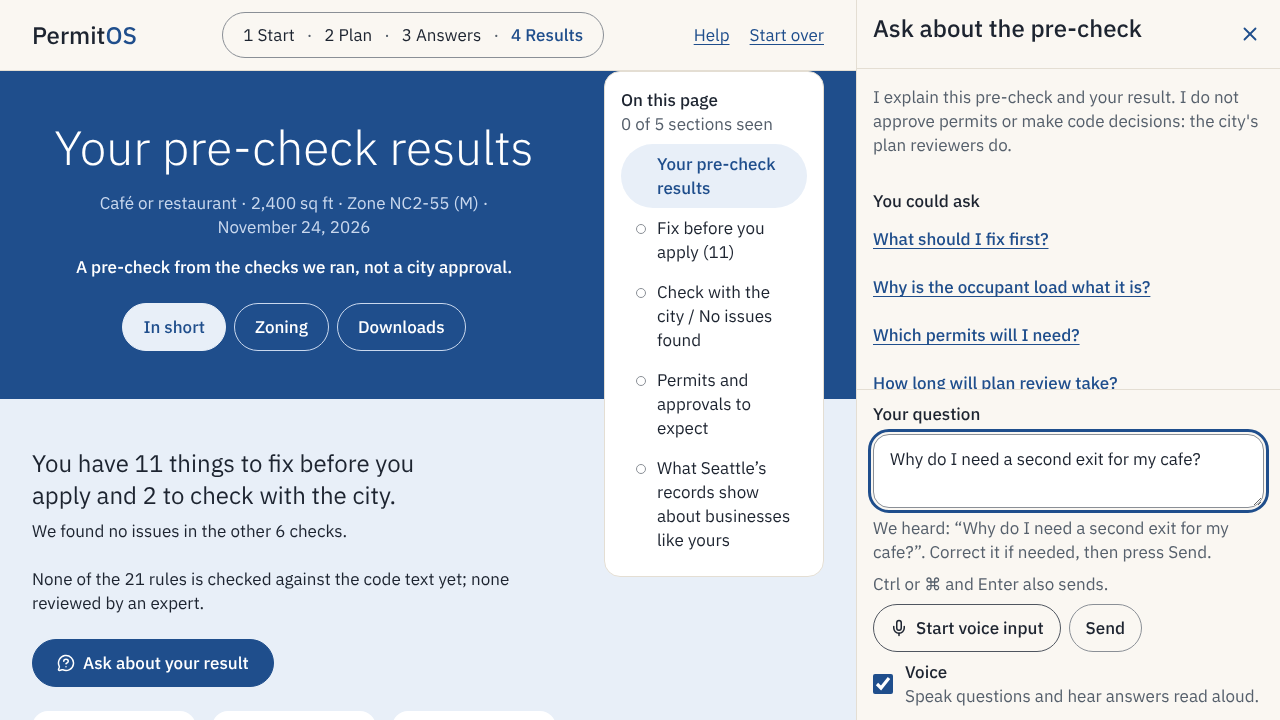
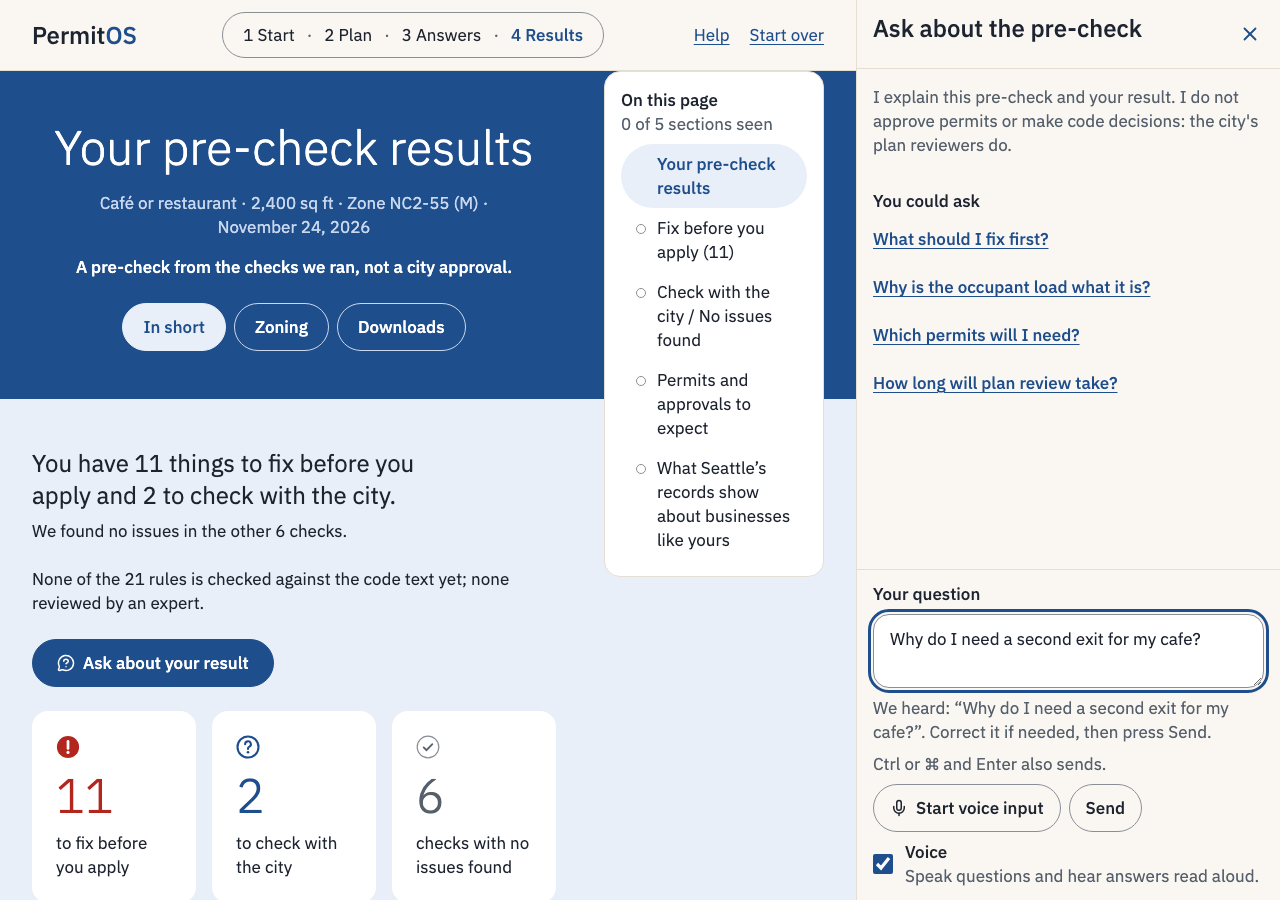
Intel-Mac ffmpeg and Node notes; keep the We heard line when the panel becomes a sheet
README: on an Intel Mac, install ffmpeg into the .venv with imageio-ffmpeg (Homebrew no
longer supports Intel Macs); keep brew for Apple Silicon. README and web/README: where Node
is on the project's Intel Mac if it is not on the PATH.

Assistant: the words heard by voice input (and whether the box still holds them) move from
PanelBody's local state to the assistant store. The side panel and the mobile sheet are
different elements, so switching layout right after speaking remounted PanelBody and lost
the We heard line while the box kept its words. Clearing the conversation now also clears it.

Tests: a unit test that remounts the panel, and an e2e test that speaks at 1280 px, resizes
to 375 px and checks the line is unchanged. The Path A heard screenshot is now taken at
375 px as well.

diff --git a/web/tests/e2e/voice.spec.ts b/web/tests/e2e/voice.spec.ts
@@ -113,7 +113,7 @@ test("Path A: on this device, keyboard only: words appear live, no audio is sent
   await page.keyboard.press("Enter");                      // Stop, still focused
   await expect(panel(page).getByTestId("heard")).toHaveText(`We heard: “${HEARD}”. Correct it if needed, then press Send.`);
   await expect(panel(page).getByTestId("heard")).toHaveAttribute("aria-live", "polite");
-  if (process.env.SHOTS) await page.screenshot({ path: "../docs/screenshots/voice-hybrid/path-a-heard-1280.png" });   // before a resize remounts it
+  await shoot(page, "voice-hybrid", "path-a-heard", { fullPage: false });   // the line survives the resize to 375 and back
   const log = await page.evaluate(() => (window as unknown as { __speech: unknown[] }).__speech);
   expect(log).toContainEqual(["available", { langs: ["en-US"], processLocally: true }]);
   expect(log).toContainEqual(["start", true, true, "en-US"]);
@@ -273,6 +273,26 @@ test("a half-typed question survives the panel changing to a sheet", async ({ pa
   await panel(page).getByRole("textbox", { name: "Your question" }).fill("Do I need");
   await page.setViewportSize({ width: 375, height: 812 });
   await expect(panel(page).getByRole("textbox", { name: "Your question" })).toHaveValue("Do I need");
+});
+
+test("the We heard line survives the panel changing to a sheet right after speaking", async ({ page }) => {
+  await onDeviceRecognition(page, "available");
+  await page.setViewportSize({ width: 1280, height: 900 });
+  await page.goto("/business/");
+  await page.getByRole("button", { name: "Ask", exact: true }).click();
+  await panel(page).getByRole("button", { name: START }).click();
+  const box = panel(page).getByRole("textbox", { name: "Your question" });
+  await expect(box).toHaveValue(HEARD);
+  await panel(page).getByRole("button", { name: STOP }).click();
+  const line = `We heard: “${HEARD}”. Correct it if needed, then press Send.`;
+  await expect(panel(page).getByTestId("heard")).toHaveText(line);
+  await expect(page.locator(".side-panel")).toHaveAttribute("data-open", "true");
+  await page.setViewportSize({ width: 375, height: 812 });           // the side panel is replaced by the sheet
+  await expect(page.locator(".sheet")).toBeVisible();
+  await expect(panel(page).getByRole("textbox", { name: "Your question" })).toHaveValue(HEARD);
+  await expect(panel(page).getByTestId("heard")).toHaveText(line);
+  await expect(panel(page).getByTestId("heard")).toBeVisible();
+  await expectNoAxeViolations(page, "heard after the change to a sheet");
 });
 
 test("the microphone shows on step 1 too, and Voice off hides it and is remembered", async ({ page }) => {

diff --git a/web/src/state/assistant.ts b/web/src/state/assistant.ts
@@ -1,5 +1,6 @@
 /**
- * The assistant's state for this tab: open or closed, the conversation, and a question waiting to be typed.
+ * The assistant's state for this tab: open or closed, the conversation, a question waiting to be typed, and the
+ * words last heard by voice input (the "We heard" line).
  * In memory only. It never opens by itself: only the Ask button and "Ask about this" open it.
  */
 export type Message =
@@ -7,9 +8,12 @@ export type Message =
   | { role: "assistant"; text: string; cited: string[]; by: "template" | "model" | "help"; spoken?: boolean }
   | { role: "problem"; text: string };
 
-type State = { open: boolean; messages: Message[]; draft: string; draftVersion: number; pending: boolean };
+/** heard: the words voice input put in the box; spoken: the box's text still came from the microphone. */
+type Heard = { heard: string; spoken: boolean };
+type State = { open: boolean; messages: Message[]; draft: string; draftVersion: number; pending: boolean } & Heard;
 
-let state: State = { open: false, messages: [], draft: "", draftVersion: 0, pending: false };
+const EMPTY: State = { open: false, messages: [], draft: "", draftVersion: 0, pending: false, heard: "", spoken: false };
+let state: State = EMPTY;
 const listeners = new Set<() => void>();
 const set = (patch: Partial<State>) => {
   state = { ...state, ...patch };
@@ -30,9 +34,14 @@ export const assistant = {
   keepDraft: (text: string) => {
     state = { ...state, draft: text };
   },
+  /**
+   * The "We heard" line. Kept here, not in the panel, because the side panel and the sheet are different elements:
+   * when one replaces the other (the window narrows, a phone rotates) the line must stay with the words in the box.
+   */
+  setHeard: (h: Partial<Heard>) => set(h),
   add: (m: Message) => set({ messages: [...state.messages, m] }),
   setPending: (pending: boolean) => set({ pending }),
-  clear: () => set({ messages: [], draft: "", draftVersion: state.draftVersion + 1 }),
+  clear: () => set({ messages: [], draft: "", draftVersion: state.draftVersion + 1, heard: "", spoken: false }),
   /** For tests. */
-  reset: () => set({ open: false, messages: [], draft: "", draftVersion: 0, pending: false }),
+  reset: () => set(EMPTY),
 };

diff --git a/web/src/components/assistant/Assistant.tsx b/web/src/components/assistant/Assistant.tsx
@@ -187,8 +187,9 @@ function PanelBody({ step, checkId, onClose, closeOnLink }: { step: string; chec
   const [seenDraft, setSeenDraft] = useState(s.draftVersion);
   const [voiceOn, setVoiceOn] = useState(() => voiceSetting.get());
   const [mic, setMic] = useState<MicState>({ state: "idle" });
-  const [spokenNext, setSpokenNext] = useState(false);       // the text in the box came from the microphone
-  const [heard, setHeard] = useState("");                     // the words heard, for the live region
+  // The "We heard" line lives in the store, so it survives the panel changing to the sheet (or back) right after speaking.
+  const { heard, spoken: spokenNext } = s;
+  const setSpokenNext = (spoken: boolean) => assistant.setHeard({ spoken });
   const [reading, setReading] = useState<number | null>(null);
   const recording = useRef<Recording | null>(null);
   const listening = useRef<Listening | null>(null);
@@ -295,16 +296,14 @@ function PanelBody({ step, checkId, onClose, closeOnLink }: { step: string; chec
   /** The words heard go in the box (nothing is sent until Send) and, once, in the live region. */
   function done(words: string) {
     setText(words);
-    setHeard(words);
-    setSpokenNext(!!words.trim());
+    assistant.setHeard({ heard: words, spoken: !!words.trim() });
     setMic({ state: "idle" });
     requestAnimationFrame(() => box.current?.focus());
   }
 
   async function startMic() {
     stopSpeaking();
-    setHeard("");
-    setSpokenNext(false);
+    assistant.setHeard({ heard: "", spoken: false });
     let status: string = onDevice;
     if (path === "ondevice" && status === "unasked") {
       const s = await onDeviceStatus();

diff --git a/web/tests/unit/voice.test.tsx b/web/tests/unit/voice.test.tsx
@@ -168,6 +168,25 @@ describe("Path A: on this device", () => {
     expect(fetchMock.mock.calls.filter((c) => (c[0] as Request).url.endsWith("/ask"))).toHaveLength(0);   // nothing sent until Send
   });
 
+  it("the We heard line is kept in the store, so a new panel (the sheet replacing the side panel) still shows it", async () => {
+    useRecognition(FakeRecognition);
+    const first = render(<Assistant />);
+    openPanel();
+    fireEvent.click(await startButton());
+    await waitFor(() => expect(FakeRecognition.instances).toHaveLength(1));
+    const stop = await screen.findByRole("button", { name: "Stop voice input" });
+    act(() => FakeRecognition.instances[0].say([{ transcript: HEARD, isFinal: true }]));
+    fireEvent.click(stop);
+    const line = `We heard: “${HEARD}”. Correct it if needed, then press Send.`;
+    await waitFor(() => expect(screen.getByTestId("heard").textContent).toBe(line));
+    first.unmount();                                                               // as when the layout changes
+    render(<Assistant />);
+    expect(box().value).toBe(HEARD);
+    expect(screen.getByTestId("heard").textContent).toBe(line);
+    act(() => assistant.clear());                                                  // clearing empties the box and the line
+    expect(screen.getByTestId("heard").textContent).toBe("");
+  });
+
   it("downloadable: install() runs from the mic press, says so once, then listens", async () => {
     useRecognition(FakeRecognition);
     FakeRecognition.available = vi.fn(async () => "downloadable");

diff --git a/README.md b/README.md
@@ -73,6 +73,10 @@ source .venv/bin/activate            # Windows (PowerShell): .venv\Scripts\Activ
 python -m pip install -r requirements.txt
 ```
 
+The web front end in `web/` also needs Node 22 (see [web/README.md](web/README.md)). On the project's Intel Mac, Node is
+installed in `~/.local/node-v22.23.5-darwin-x64/bin`. If `node` or `npm` is not found, add it to the PATH for that
+terminal: `export PATH="$HOME/.local/node-v22.23.5-darwin-x64/bin:$PATH"`.
+
 **Run the website** (works with no key and no internet, on the demo plans):
 
 ```bash
@@ -122,8 +126,19 @@ PERMIT_TTS=kokoro python -m streamlit run app/streamlit_app.py
 Without the install, questions are typed and the browser reads the answers aloud. Without `PERMIT_TTS=kokoro`, the microphone works and the browser's voice reads the answers.
 
 **ffmpeg** (for the web API's `/api/transcribe`): browsers record WebM, MP4 or Ogg, and the API converts each to WAV
-with ffmpeg before faster-whisper reads it. Install it with `brew install ffmpeg` (macOS), `sudo apt-get install
-ffmpeg` (Debian, Ubuntu) or `winget install ffmpeg` (Windows), so that `ffmpeg` is on the PATH. Without it,
+with ffmpeg before faster-whisper reads it. Install it with `brew install ffmpeg` (macOS on Apple Silicon), `sudo
+apt-get install ffmpeg` (Debian, Ubuntu) or `winget install ffmpeg` (Windows), so that `ffmpeg` is on the PATH.
+
+On an Intel Mac, Homebrew no longer supports the machine, so install ffmpeg into the project's `.venv` instead. With the
+`.venv` active, from the repository root:
+
+```bash
+pip install imageio-ffmpeg
+ln -sf "$(python -c 'import imageio_ffmpeg; print(imageio_ffmpeg.get_ffmpeg_exe())')" .venv/bin/ffmpeg
+ffmpeg -version                      # prints the version: ffmpeg is on the PATH while the .venv is active
+```
+
+This puts ffmpeg on the PATH only while the `.venv` is active, which is when the API and the tests run. Without it,
 `/api/meta` reports `speech_to_text: false` and the website records nothing; browsers that can turn speech into text
 on the device (recent Chrome) still take spoken questions, because their audio never reaches the server. The
 recording is kept in a private temporary folder only while ffmpeg converts it, then deleted. The API tests generate

diff --git a/web/README.md b/web/README.md
@@ -6,6 +6,9 @@ It holds no rules, no code values and no key: it displays what the API returns. 
 
 ## Run it on your computer
 
+Needs Node 22.22.2 or newer. On the project's Intel Mac, Node is in `~/.local/node-v22.23.5-darwin-x64/bin`; if `npm`
+is not found, run `export PATH="$HOME/.local/node-v22.23.5-darwin-x64/bin:$PATH"` first.
+
 ```bash
 # once
 cd web && npm ci
